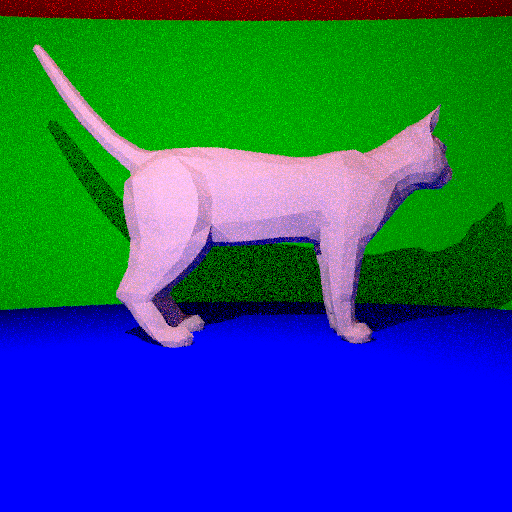
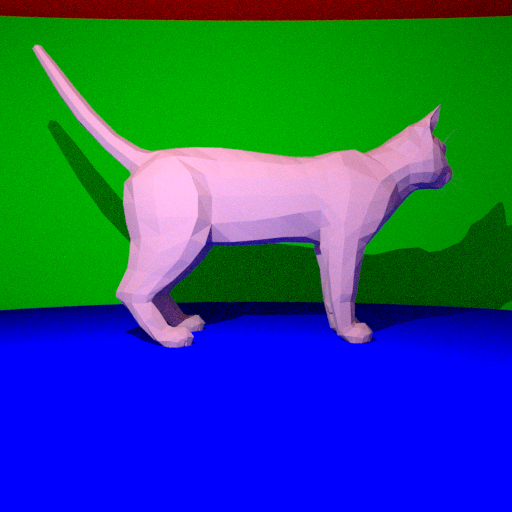
add chrono

Changed region(s): [[0.0, 0.0, 1.0, 0.7188]]

diff --git a/RayTracer/main.cpp b/RayTracer/main.cpp
@@ -674,8 +674,10 @@ public:
 int main() {
 	int W = 512;
 	int H = 512;
-	int nrays = 32;
-	int bounces = 3;
+	int nrays = 64;
+	int bounces = 5;
+
+	auto start = std::chrono::high_resolution_clock::now(); 
 
 	double fov = 60 * M_PI / 180;
 	double z = -W / (2 * tan(fov / 2));
@@ -715,7 +717,7 @@ int main() {
 	stool->translate_and_scale(Vector(10,-2,0), 3);
 	stool->buildBVH(&stool->bvh, 0, stool->indices.size());
 	scene.addMesh(stool);
-
+	
 	Vector Cam(0,0,55); // camera point of view
 	scene.L = Vector(-10, 20, 40); // Light source
 	scene.I = 3E10; // Light intensity
@@ -748,6 +750,12 @@ int main() {
 		}
 	}
 	stbi_write_png("images/image.png", W, H, 3, &image[0], 0);
+
+	std::cout << "Done" << std::endl;
+    auto stop = std::chrono::high_resolution_clock::now(); 
+    auto duration = std::chrono::duration_cast<std::chrono::microseconds>(stop - start);
+	std::cout << "Execution time (seconds):" << std::endl;
+	std::cout << duration.count()/1000/1000 << std::endl;
 
 	return 0;
 }
